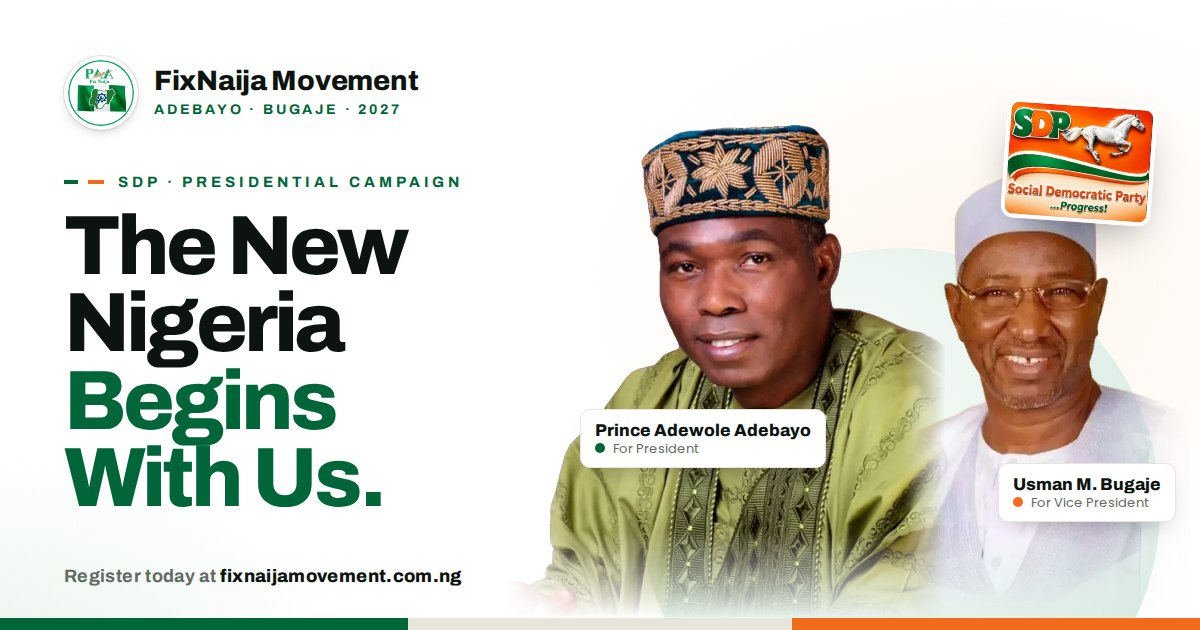
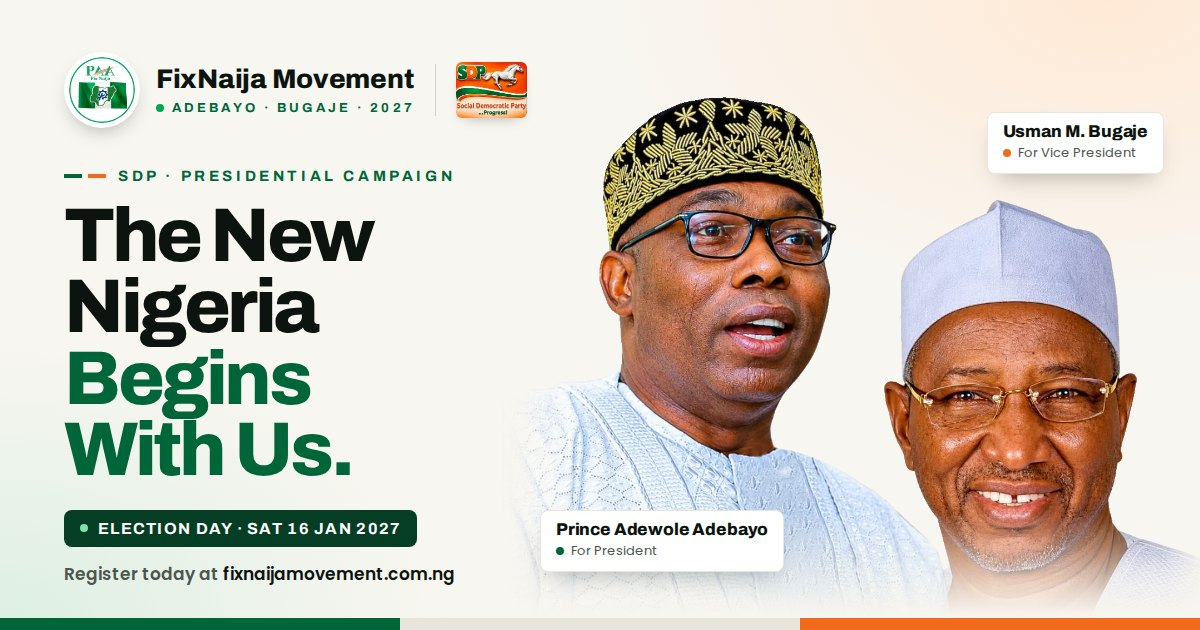
Update link preview image with the new campaign photo

diff --git a/yoruba.html b/yoruba.html
@@ -19,9 +19,13 @@
 <meta property="og:title" content="Nàìjíríà tuntun bẹ̀rẹ̀ lọ́dọ̀ wa. · FixNaija">
 <meta property="og:description" content="Àkópọ̀ ní èdè Yorùbá: ẹgbẹ́ FixNaija, ìdíje Adebayo àti Bugaje lábẹ́ SDP, àti àwọn ìlérí inú ètò “Ó dìgbóṣe fún Òṣì àti Àìsí Ààbò”. Forúkọ sílẹ̀ lónìí.">
 <meta property="og:url" content="https://www.fixnaijamovement.com.ng/yoruba.html">
-<meta property="og:image" content="https://www.fixnaijamovement.com.ng/images/og-fixnaija.jpg">
+<meta property="og:image" content="https://www.fixnaijamovement.com.ng/images/og-fixnaija-v2.jpg">
+<meta property="og:image:type" content="image/jpeg">
+<meta property="og:image:width" content="1200">
+<meta property="og:image:height" content="630">
+<meta property="og:image:alt" content="The New Nigeria Begins With Us — Prince Adewole Adebayo and Usman M. Bugaje, SDP 2027">
 <meta name="twitter:card" content="summary_large_image">
-<meta name="twitter:image" content="https://www.fixnaijamovement.com.ng/images/og-fixnaija.jpg">
+<meta name="twitter:image" content="https://www.fixnaijamovement.com.ng/images/og-fixnaija-v2.jpg">
 <link rel="preconnect" href="https://fonts.googleapis.com">
 <link rel="preconnect" href="https://fonts.gstatic.com" crossorigin>
 <link href="https://fonts.googleapis.com/css2?family=Archivo:wght@500;600;700;800&family=Noto+Sans:wght@400;500;600;700;800&family=Poppins:wght@300;400;500;600;700&display=swap" rel="stylesheet">

diff --git a/igbo.html b/igbo.html
@@ -19,9 +19,13 @@
 <meta property="og:title" content="Naịjirịa ọhụrụ na-amalite n&#x27;aka anyị. · FixNaija">
 <meta property="og:description" content="Nchịkọta n&#x27;asụsụ Igbo: òtù FixNaija, Adebayo na Bugaje nke SDP, na nkwa ndị dị n&#x27;atụmatụ “Ka Ọ Dị: Ịda Ogbenye na Enweghị Nchekwa”. Debanye aha taa.">
 <meta property="og:url" content="https://www.fixnaijamovement.com.ng/igbo.html">
-<meta property="og:image" content="https://www.fixnaijamovement.com.ng/images/og-fixnaija.jpg">
+<meta property="og:image" content="https://www.fixnaijamovement.com.ng/images/og-fixnaija-v2.jpg">
+<meta property="og:image:type" content="image/jpeg">
+<meta property="og:image:width" content="1200">
+<meta property="og:image:height" content="630">
+<meta property="og:image:alt" content="The New Nigeria Begins With Us — Prince Adewole Adebayo and Usman M. Bugaje, SDP 2027">
 <meta name="twitter:card" content="summary_large_image">
-<meta name="twitter:image" content="https://www.fixnaijamovement.com.ng/images/og-fixnaija.jpg">
+<meta name="twitter:image" content="https://www.fixnaijamovement.com.ng/images/og-fixnaija-v2.jpg">
 <link rel="preconnect" href="https://fonts.googleapis.com">
 <link rel="preconnect" href="https://fonts.gstatic.com" crossorigin>
 <link href="https://fonts.googleapis.com/css2?family=Archivo:wght@500;600;700;800&family=Noto+Sans:wght@400;500;600;700;800&family=Poppins:wght@300;400;500;600;700&display=swap" rel="stylesheet">

diff --git a/hausa.html b/hausa.html
@@ -19,9 +19,13 @@
 <meta property="og:title" content="Sabuwar Najeriya ta fara daga gare mu. · FixNaija">
 <meta property="og:description" content="Takaitaccen bayani a Hausa: ƙungiyar FixNaija, takarar Adebayo da Bugaje ta SDP, da alkawuran shirin “Bankwana da Talauci da Rashin Tsaro”. Yi rajista yau.">
 <meta property="og:url" content="https://www.fixnaijamovement.com.ng/hausa.html">
-<meta property="og:image" content="https://www.fixnaijamovement.com.ng/images/og-fixnaija.jpg">
+<meta property="og:image" content="https://www.fixnaijamovement.com.ng/images/og-fixnaija-v2.jpg">
+<meta property="og:image:type" content="image/jpeg">
+<meta property="og:image:width" content="1200">
+<meta property="og:image:height" content="630">
+<meta property="og:image:alt" content="The New Nigeria Begins With Us — Prince Adewole Adebayo and Usman M. Bugaje, SDP 2027">
 <meta name="twitter:card" content="summary_large_image">
-<meta name="twitter:image" content="https://www.fixnaijamovement.com.ng/images/og-fixnaija.jpg">
+<meta name="twitter:image" content="https://www.fixnaijamovement.com.ng/images/og-fixnaija-v2.jpg">
 <link rel="preconnect" href="https://fonts.googleapis.com">
 <link rel="preconnect" href="https://fonts.gstatic.com" crossorigin>
 <link href="https://fonts.googleapis.com/css2?family=Archivo:wght@500;600;700;800&family=Noto+Sans:wght@400;500;600;700;800&family=Poppins:wght@300;400;500;600;700&display=swap" rel="stylesheet">

diff --git a/blueprint.html b/blueprint.html
@@ -13,9 +13,13 @@
 <meta property="og:title" content="Farewell to Poverty and Insecurity — the 2027–2031 Blueprint">
 <meta property="og:description" content="Farewell to Poverty and Insecurity: Prince Adewole Adebayo's 2027–2031 blueprint — 12 presidential missions, 75,000MW of power, 3 million affordable homes, and a public scorecard.">
 <meta property="og:url" content="https://www.fixnaijamovement.com.ng/blueprint.html">
-<meta property="og:image" content="https://www.fixnaijamovement.com.ng/images/og-fixnaija.jpg">
+<meta property="og:image" content="https://www.fixnaijamovement.com.ng/images/og-fixnaija-v2.jpg">
+<meta property="og:image:type" content="image/jpeg">
+<meta property="og:image:width" content="1200">
+<meta property="og:image:height" content="630">
+<meta property="og:image:alt" content="The New Nigeria Begins With Us — Prince Adewole Adebayo and Usman M. Bugaje, SDP 2027">
 <meta name="twitter:card" content="summary_large_image">
-<meta name="twitter:image" content="https://www.fixnaijamovement.com.ng/images/og-fixnaija.jpg">
+<meta name="twitter:image" content="https://www.fixnaijamovement.com.ng/images/og-fixnaija-v2.jpg">
 <link rel="preconnect" href="https://fonts.googleapis.com">
 <link rel="preconnect" href="https://fonts.gstatic.com" crossorigin>
 <link href="https://fonts.googleapis.com/css2?family=Archivo:wght@500;600;700;800&family=Poppins:wght@300;400;500;600;700&display=swap" rel="stylesheet">

diff --git a/pidgin.html b/pidgin.html
@@ -14,9 +14,13 @@
 <meta property="og:title" content="New Naija go start from us. · FixNaija">
 <meta property="og:description" content="Short gist for Pidgin: the FixNaija movement, the SDP ticket of Adebayo and Bugaje, and the promises for the “Farewell to Poverty and Insecurity” plan. Register today.">
 <meta property="og:url" content="https://www.fixnaijamovement.com.ng/pidgin.html">
-<meta property="og:image" content="https://www.fixnaijamovement.com.ng/images/og-fixnaija.jpg">
+<meta property="og:image" content="https://www.fixnaijamovement.com.ng/images/og-fixnaija-v2.jpg">
+<meta property="og:image:type" content="image/jpeg">
+<meta property="og:image:width" content="1200">
+<meta property="og:image:height" content="630">
+<meta property="og:image:alt" content="The New Nigeria Begins With Us — Prince Adewole Adebayo and Usman M. Bugaje, SDP 2027">
 <meta name="twitter:card" content="summary_large_image">
-<meta name="twitter:image" content="https://www.fixnaijamovement.com.ng/images/og-fixnaija.jpg">
+<meta name="twitter:image" content="https://www.fixnaijamovement.com.ng/images/og-fixnaija-v2.jpg">
 <link rel="preconnect" href="https://fonts.googleapis.com">
 <link rel="preconnect" href="https://fonts.gstatic.com" crossorigin>
 <link href="https://fonts.googleapis.com/css2?family=Archivo:wght@500;600;700;800&family=Poppins:wght@300;400;500;600;700&display=swap" rel="stylesheet">

diff --git a/register.html b/register.html
@@ -14,10 +14,14 @@
 <meta property="og:title" content="Register — FixNaija Movement">
 <meta property="og:description" content="Register with the FixNaija Movement and join the grassroots network in your Local Government Area. Show up, speak up, fix Naija.">
 <meta property="og:url" content="https://www.fixnaijamovement.com.ng/register.html">
-<meta property="og:image" content="https://www.fixnaijamovement.com.ng/images/og-fixnaija.jpg">
+<meta property="og:image" content="https://www.fixnaijamovement.com.ng/images/og-fixnaija-v2.jpg">
+<meta property="og:image:type" content="image/jpeg">
+<meta property="og:image:width" content="1200">
+<meta property="og:image:height" content="630">
+<meta property="og:image:alt" content="The New Nigeria Begins With Us — Prince Adewole Adebayo and Usman M. Bugaje, SDP 2027">
 <meta property="og:locale" content="en_NG">
 <meta name="twitter:card" content="summary_large_image">
-<meta name="twitter:image" content="https://www.fixnaijamovement.com.ng/images/og-fixnaija.jpg">
+<meta name="twitter:image" content="https://www.fixnaijamovement.com.ng/images/og-fixnaija-v2.jpg">
 <link rel="preconnect" href="https://fonts.googleapis.com">
 <link rel="preconnect" href="https://fonts.gstatic.com" crossorigin>
 <link href="https://fonts.googleapis.com/css2?family=Archivo:wght@500;600;700;800&family=Poppins:wght@300;400;500;600;700&display=swap" rel="stylesheet">

diff --git a/protect-the-vote.html b/protect-the-vote.html
@@ -13,9 +13,13 @@
 <meta property="og:title" content="Protect the Vote — Be a Polling Unit Agent">
 <meta property="og:description" content="Be a polling unit agent for the Adebayo–Bugaje ticket on 16 January 2027. Sign up, get trained, and help protect every vote at your polling unit.">
 <meta property="og:url" content="https://www.fixnaijamovement.com.ng/protect-the-vote.html">
-<meta property="og:image" content="https://www.fixnaijamovement.com.ng/images/og-fixnaija.jpg">
+<meta property="og:image" content="https://www.fixnaijamovement.com.ng/images/og-fixnaija-v2.jpg">
+<meta property="og:image:type" content="image/jpeg">
+<meta property="og:image:width" content="1200">
+<meta property="og:image:height" content="630">
+<meta property="og:image:alt" content="The New Nigeria Begins With Us — Prince Adewole Adebayo and Usman M. Bugaje, SDP 2027">
 <meta name="twitter:card" content="summary_large_image">
-<meta name="twitter:image" content="https://www.fixnaijamovement.com.ng/images/og-fixnaija.jpg">
+<meta name="twitter:image" content="https://www.fixnaijamovement.com.ng/images/og-fixnaija-v2.jpg">
 <link rel="preconnect" href="https://fonts.googleapis.com">
 <link rel="preconnect" href="https://fonts.gstatic.com" crossorigin>
 <link href="https://fonts.googleapis.com/css2?family=Archivo:wght@500;600;700;800&family=Poppins:wght@300;400;500;600;700&display=swap" rel="stylesheet">

diff --git a/answer.html b/answer.html
@@ -8,9 +8,13 @@
 <meta property="og:site_name" content="FixNaija Movement">
 <meta property="og:title" content="The FixNaija Agenda — Deep Problems, Deeper Answers">
 <meta property="og:description" content="The FixNaija repair plan, issue by issue — drawn from Prince Adewole Adebayo's 2027–2031 blueprint.">
-<meta property="og:image" content="https://www.fixnaijamovement.com.ng/images/og-fixnaija.jpg">
+<meta property="og:image" content="https://www.fixnaijamovement.com.ng/images/og-fixnaija-v2.jpg">
+<meta property="og:image:type" content="image/jpeg">
+<meta property="og:image:width" content="1200">
+<meta property="og:image:height" content="630">
+<meta property="og:image:alt" content="The New Nigeria Begins With Us — Prince Adewole Adebayo and Usman M. Bugaje, SDP 2027">
 <meta name="twitter:card" content="summary_large_image">
-<meta name="twitter:image" content="https://www.fixnaijamovement.com.ng/images/og-fixnaija.jpg">
+<meta name="twitter:image" content="https://www.fixnaijamovement.com.ng/images/og-fixnaija-v2.jpg">
 
 <meta name="description" content="The FixNaija repair plan, issue by issue — drawn from Prince Adewole Adebayo's 2027–2031 blueprint.">
 <link rel="icon" type="image/png" href="images/logo.png">

diff --git a/index.html b/index.html
@@ -26,13 +26,13 @@
 <meta property="og:title" content="FixNaija Movement — It's Time to Fix Nigeria">
 <meta property="og:description" content="A citizen-owned movement, convened by Prince Adewole Adebayo, repairing Nigeria ward by ward across all 774 communities.">
 <meta property="og:url" content="https://www.fixnaijamovement.com.ng/">
-<meta property="og:image" content="https://www.fixnaijamovement.com.ng/images/og-fixnaija.jpg">
+<meta property="og:image" content="https://www.fixnaijamovement.com.ng/images/og-fixnaija-v2.jpg">
 <meta property="og:image:width" content="1200">
 <meta property="og:image:height" content="630">
 <meta property="og:image:alt" content="The New Nigeria Begins With Us — Adebayo and Bugaje, SDP 2027">
 <meta property="og:locale" content="en_NG">
 <meta name="twitter:card" content="summary_large_image">
-<meta name="twitter:image" content="https://www.fixnaijamovement.com.ng/images/og-fixnaija.jpg">
+<meta name="twitter:image" content="https://www.fixnaijamovement.com.ng/images/og-fixnaija-v2.jpg">
 
 <style>
 /* =====================================================================

diff --git a/report-issue.html b/report-issue.html
@@ -19,7 +19,11 @@
 <meta property="og:title" content="Report a Community Issue — FixNaija Movement">
 <meta property="og:description" content="Report a community issue — photograph and geotag failing public projects in your ward so FixNaija can push for accountability.">
 <meta property="og:url" content="https://www.fixnaijamovement.com.ng/report-issue.html">
-<meta property="og:image" content="https://www.fixnaijamovement.com.ng/images/og-fixnaija.jpg">
+<meta property="og:image" content="https://www.fixnaijamovement.com.ng/images/og-fixnaija-v2.jpg">
+<meta property="og:image:type" content="image/jpeg">
+<meta property="og:image:width" content="1200">
+<meta property="og:image:height" content="630">
+<meta property="og:image:alt" content="The New Nigeria Begins With Us — Prince Adewole Adebayo and Usman M. Bugaje, SDP 2027">
 <meta property="og:locale" content="en_NG">
 <meta name="twitter:card" content="summary_large_image">
 <meta name="twitter:title" content="Report a Community Issue — FixNaija Movement">

diff --git a/find-lga.html b/find-lga.html
@@ -19,7 +19,11 @@
 <meta property="og:title" content="Find Your Community — FixNaija Movement">
 <meta property="og:description" content="Find your state and Local Government Area to connect with your local FixNaija network and join the movement across all 774 LGAs.">
 <meta property="og:url" content="https://www.fixnaijamovement.com.ng/find-lga.html">
-<meta property="og:image" content="https://www.fixnaijamovement.com.ng/images/og-fixnaija.jpg">
+<meta property="og:image" content="https://www.fixnaijamovement.com.ng/images/og-fixnaija-v2.jpg">
+<meta property="og:image:type" content="image/jpeg">
+<meta property="og:image:width" content="1200">
+<meta property="og:image:height" content="630">
+<meta property="og:image:alt" content="The New Nigeria Begins With Us — Prince Adewole Adebayo and Usman M. Bugaje, SDP 2027">
 <meta property="og:locale" content="en_NG">
 <meta name="twitter:card" content="summary_large_image">
 <meta name="twitter:title" content="Find Your Community — FixNaija Movement">

diff --git a/privacy.html b/privacy.html
@@ -13,7 +13,11 @@
 <meta property="og:title" content="Privacy Policy — FixNaija Movement">
 <meta property="og:description" content="How the FixNaija Movement collects, uses and protects your personal data, in line with the Nigeria Data Protection Act 2023.">
 <meta property="og:url" content="https://www.fixnaijamovement.com.ng/privacy.html">
-<meta property="og:image" content="https://www.fixnaijamovement.com.ng/images/og-fixnaija.jpg">
+<meta property="og:image" content="https://www.fixnaijamovement.com.ng/images/og-fixnaija-v2.jpg">
+<meta property="og:image:type" content="image/jpeg">
+<meta property="og:image:width" content="1200">
+<meta property="og:image:height" content="630">
+<meta property="og:image:alt" content="The New Nigeria Begins With Us — Prince Adewole Adebayo and Usman M. Bugaje, SDP 2027">
 <meta name="twitter:card" content="summary_large_image">
 <link rel="preconnect" href="https://fonts.googleapis.com">
 <link rel="preconnect" href="https://fonts.gstatic.com" crossorigin>
